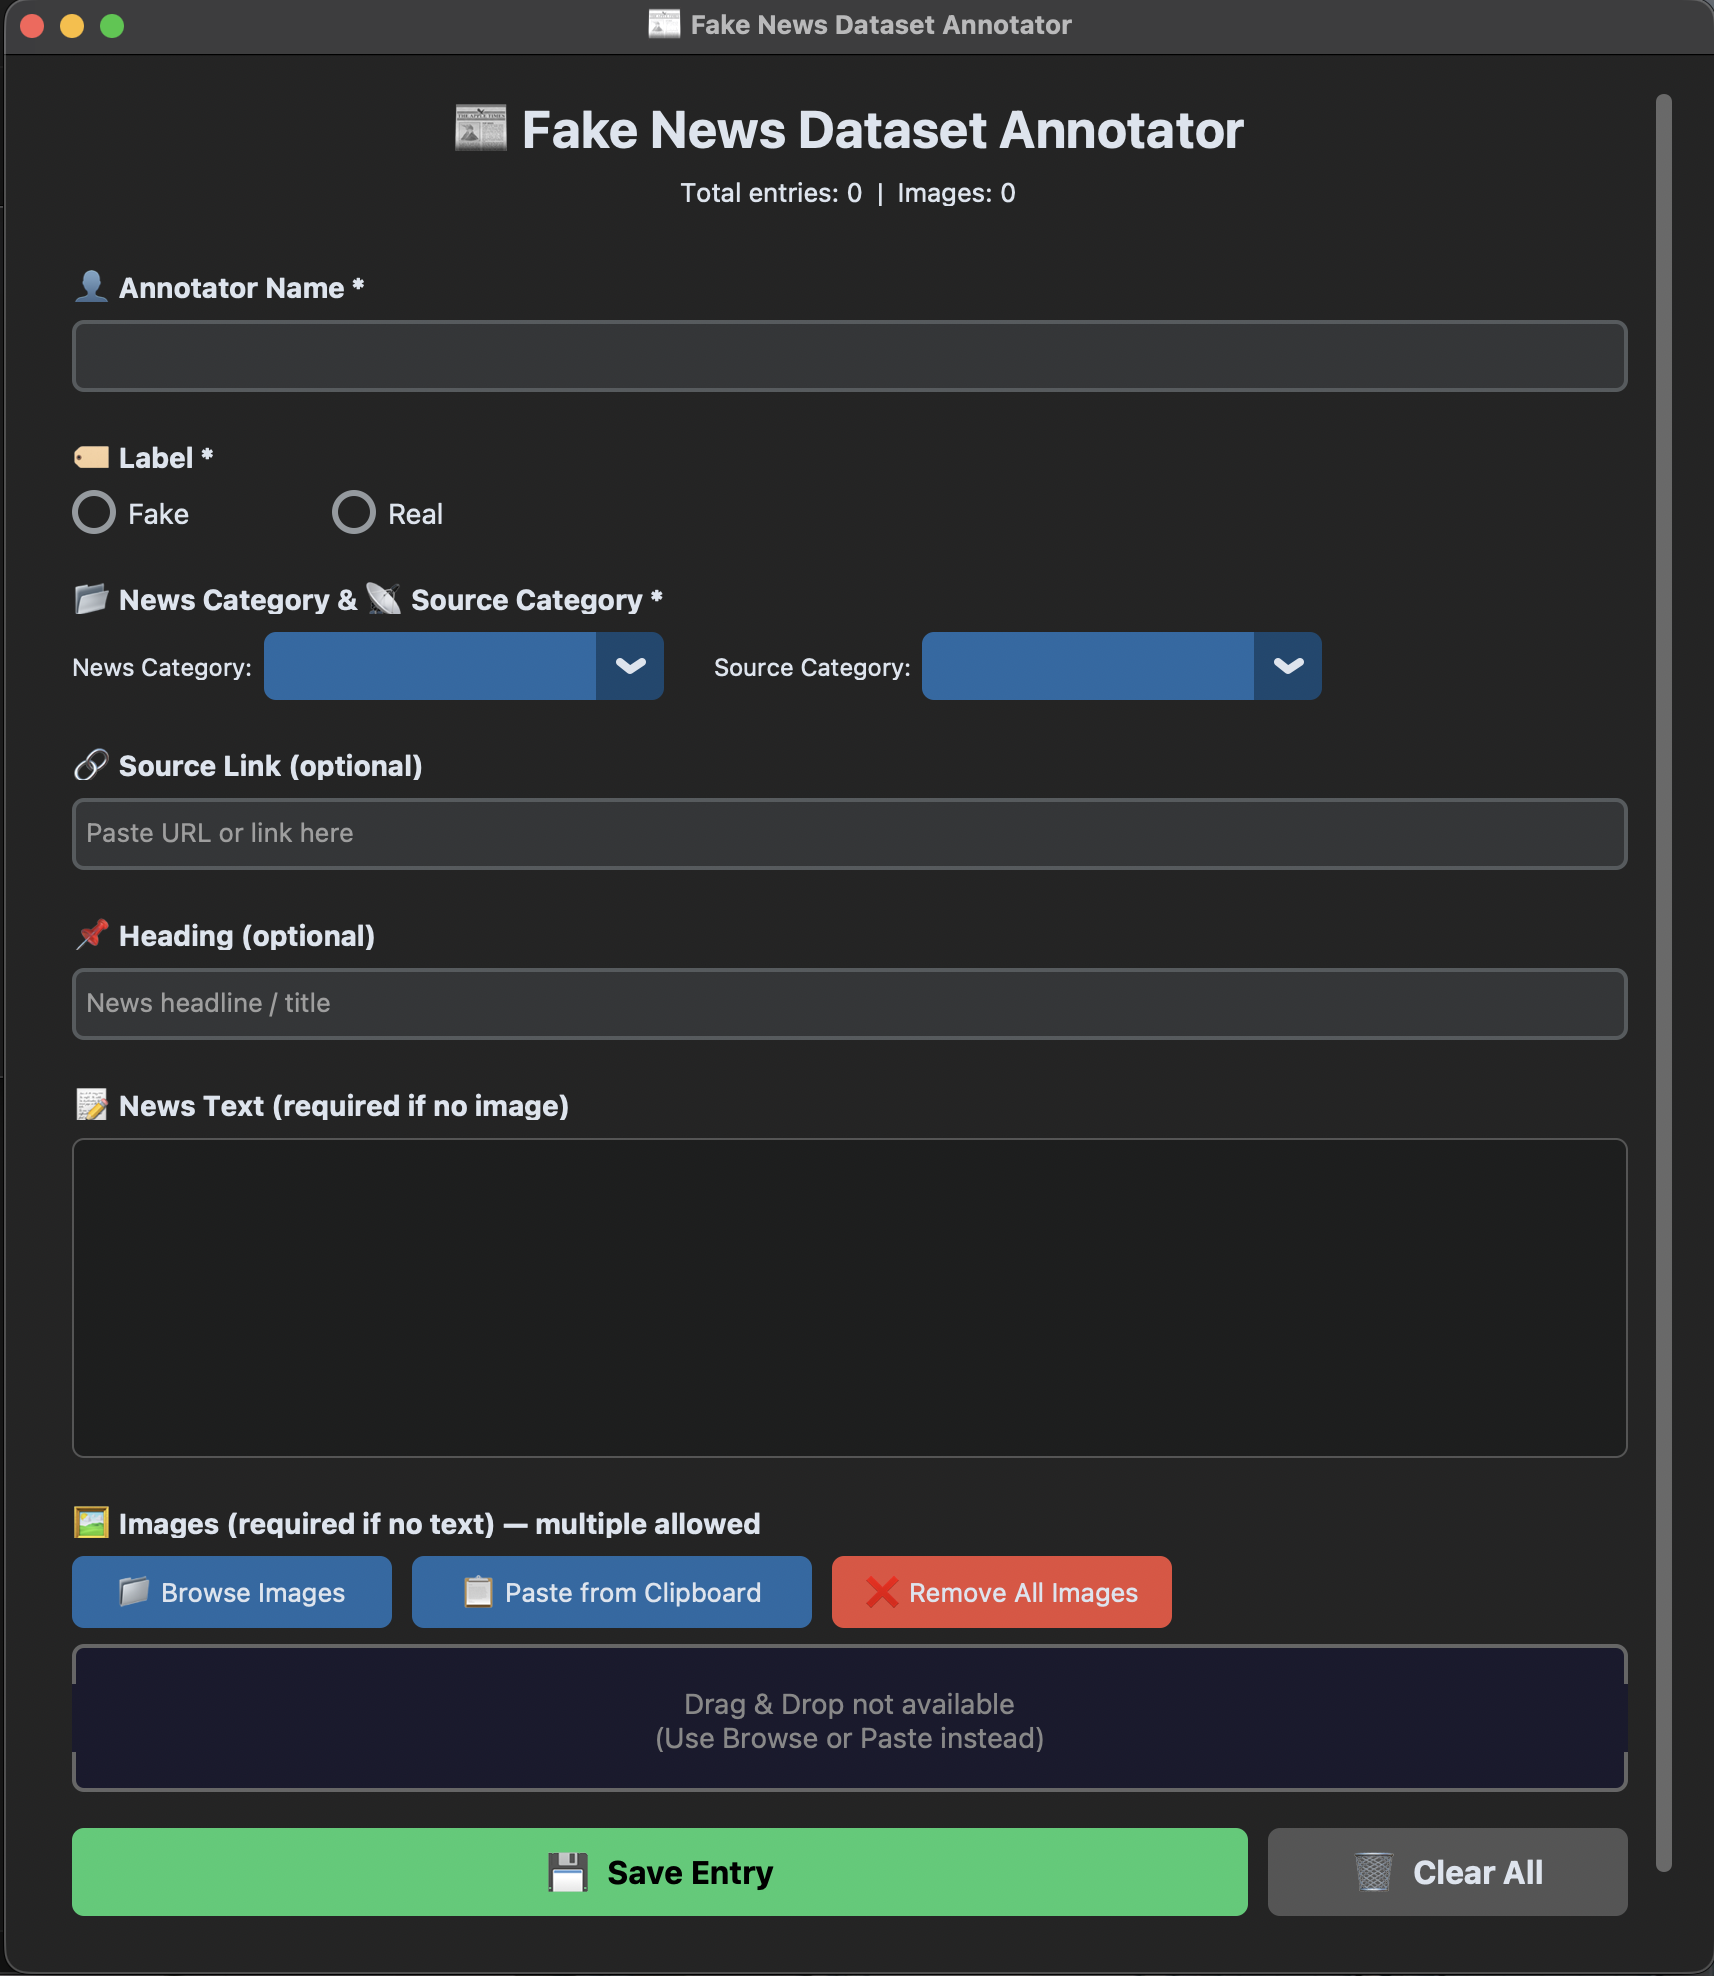
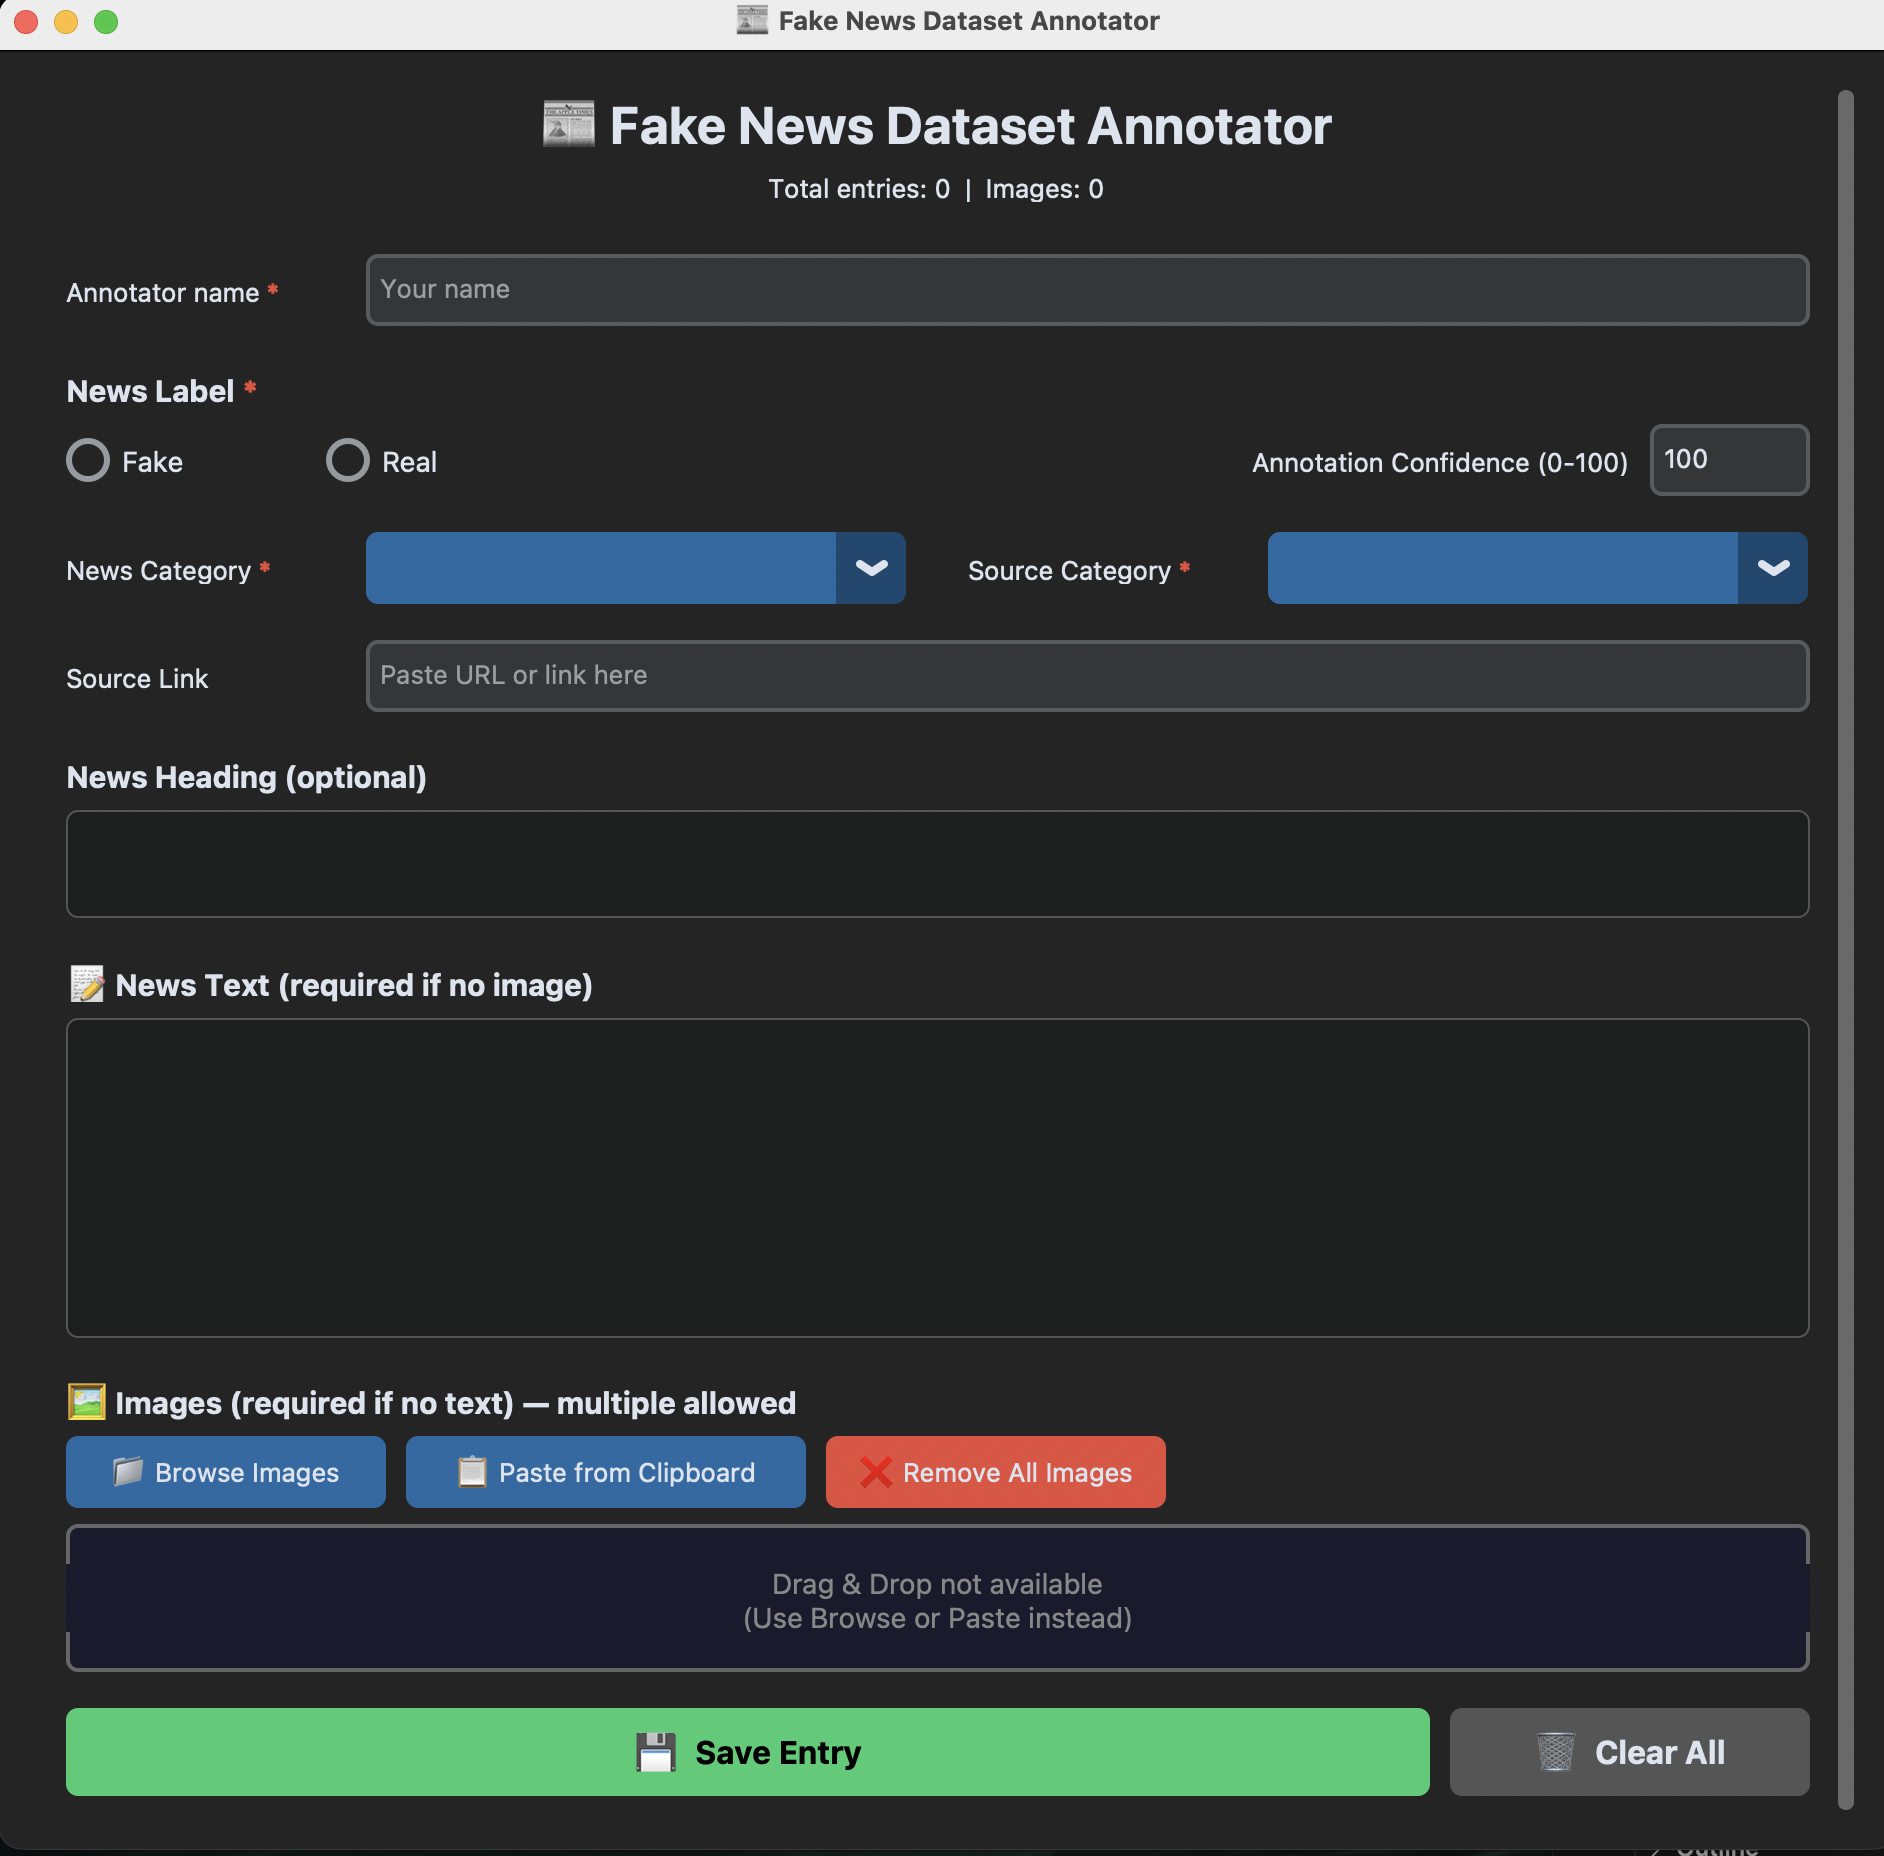
UI refactoring, perfect field alignment, and annotation confidence update

diff --git a/annotator_tool.py b/annotator_tool.py
@@ -107,13 +107,14 @@ CONFIG_PATH = SCRIPT_DIR / ".annotator_config.json"
 # - source:     Where the news came from (optional)
 # - category:   Predefined topic category (optional)
 # - annotator:  Name of the person who annotated this entry
+# - annotation_confidence: Confidence level of the annotation (0-100, default 100)
 # - timestamp:  ISO-format datetime when the entry was saved
 # - heading:         Optional headline/title of the news item
 # - multi_category:  Sub-classification for fake news (Misinformation/Rumor/Clickbait)
 #                    or "Real" when the label is Real
 # - source_category: Platform/medium where the news was found (required)
 CSV_COLUMNS = ["id", "heading", "text", "image_path", "label", "multi_category",
-               "source", "source_category", "category", "annotator", "timestamp"]
+               "source", "source_category", "category", "annotator", "annotation_confidence", "timestamp"]
 
 # CATEGORIES: Predefined category options for the dropdown menu.
 # First entry is empty string (no category selected).
@@ -302,7 +303,7 @@ class AnnotatorTool(ctk.CTk):
         
         Creates a scrollable main frame and adds all input sections:
         annotator name, label selection, category dropdown, source field,
-        text area, image controls, action buttons, and a status bar.
+        text area, image controls, and action buttons.
         """
         # Scrollable container so the UI works on smaller screens
         main = ctk.CTkScrollableFrame(self, fg_color="transparent")
@@ -316,19 +317,20 @@ class AnnotatorTool(ctk.CTk):
         self.stats_label = ctk.CTkLabel(main, text="", font=ctk.CTkFont(size=13))
         self.stats_label.pack(pady=(0, 10))
 
-        # ----- ANNOTATOR NAME FIELD (required) -----
-        # Pre-filled from config file if the user has used the tool before.
-        self._section(main, "👤 Annotator Name *")
-        self.annotator_entry = ctk.CTkEntry(main, placeholder_text="Your name", height=36)
-        self.annotator_entry.pack(fill="x", padx=10, pady=(0, 8))
-        self.annotator_entry.insert(0, load_config())  # Load saved name from config
+        # ----- ANNOTATOR NAME FIELD -----
+        annotator_row = ctk.CTkFrame(main, fg_color="transparent")
+        annotator_row.pack(fill="x", padx=10, pady=(10, 8))
+
+        self._inline_label(annotator_row, "Annotator name *")
+        self.annotator_entry = ctk.CTkEntry(annotator_row, placeholder_text="Your name", height=36)
+        self.annotator_entry.pack(side="left", fill="x", expand=True)
 
         # ----- LABEL SELECTION (required) -----
         # Two radio buttons: "Fake" (red) and "Real" (green).
         # Exactly one must be selected before saving.
         # A trace is attached to label_var so that selecting a label
         # dynamically shows/hides the multi-category sub-classification.
-        self._section(main, "🏷️ Label *")
+        self._section(main, "News Label *")
         label_frame = ctk.CTkFrame(main, fg_color="transparent")
         label_frame.pack(fill="x", padx=10, pady=(0, 8))
         self.label_var = ctk.StringVar(value="")  # Empty = nothing selected yet
@@ -342,6 +344,13 @@ class AnnotatorTool(ctk.CTk):
                                               fg_color="#2ecc71", hover_color="#27ae60",
                                               command=self._on_label_change)
         self.radio_real.pack(side="left")
+        
+        self.confidence_entry = ctk.CTkEntry(label_frame, placeholder_text="100", width=80, height=36)
+        self.confidence_entry.pack(side="right")
+        self.confidence_entry.insert(0, "100")
+        
+        ctk.CTkLabel(label_frame, text="Annotation Confidence (0-100)",
+                     font=ctk.CTkFont(size=13)).pack(side="right", padx=(0, 10))
 
         # ----- MULTI-CATEGORY SUB-CLASSIFICATION -----
         # This section is only visible when the label is "Fake".
@@ -355,9 +364,14 @@ class AnnotatorTool(ctk.CTk):
         # Initially hidden — will be shown by _on_label_change when "Fake" is selected
         self.multi_cat_var = ctk.StringVar(value="")  # Empty = nothing selected yet
         # Header label inside the frame
-        ctk.CTkLabel(self.multi_cat_frame, text="⚠️ Fake News Type *",
+        multi_cat_header = ctk.CTkFrame(self.multi_cat_frame, fg_color="transparent")
+        multi_cat_header.pack(anchor="w", padx=12, pady=(8, 4))
+        ctk.CTkLabel(multi_cat_header, text="⚠️ Fake News Type",
                      font=ctk.CTkFont(size=13, weight="bold"),
-                     text_color="#f39c12").pack(anchor="w", padx=12, pady=(8, 4))
+                     text_color="#f39c12").pack(side="left", padx=(0, 2))
+        ctk.CTkLabel(multi_cat_header, text="*",
+                     font=ctk.CTkFont(size=13, weight="bold"),
+                     text_color="#e74c3c").pack(side="left")
         # Radio button row for the three sub-types
         multi_btn_frame = ctk.CTkFrame(self.multi_cat_frame, fg_color="transparent")
         multi_btn_frame.pack(fill="x", padx=12, pady=(0, 8))
@@ -382,35 +396,38 @@ class AnnotatorTool(ctk.CTk):
         # Placed side by side on the same row to save vertical space.
         # News Category: topic of the news (Politics, Health, etc.)
         # Source Category: platform/medium where the news was found
-        self._section(main, "📂 News Category & 📡 Source Category *")
         cat_row = ctk.CTkFrame(main, fg_color="transparent")
-        cat_row.pack(fill="x", padx=10, pady=(0, 8))
+        cat_row.pack(fill="x", padx=10, pady=(10, 8))
         # Left side: News Category dropdown
-        ctk.CTkLabel(cat_row, text="News Category:",
-                     font=ctk.CTkFont(size=12)).pack(side="left", padx=(0, 5))
+        self._inline_label(cat_row, "News Category *")
         self.category_var = ctk.StringVar(value="")  # Empty = no category
         self.category_menu = ctk.CTkOptionMenu(cat_row, variable=self.category_var,
-                                                values=CATEGORIES, width=200, height=34)
-        self.category_menu.pack(side="left", padx=(0, 25))
+                                                values=CATEGORIES, height=36)
+        self.category_menu.pack(side="left", fill="x", expand=True)
+        
+        # Spacer
+        ctk.CTkFrame(cat_row, width=30, height=36, fg_color="transparent").pack(side="left")
+        
         # Right side: Source Category dropdown
-        ctk.CTkLabel(cat_row, text="Source Category:",
-                     font=ctk.CTkFont(size=12)).pack(side="left", padx=(0, 5))
+        self._inline_label(cat_row, "Source Category *")
         self.source_cat_var = ctk.StringVar(value="")  # Empty = nothing selected
         self.source_cat_menu = ctk.CTkOptionMenu(cat_row, variable=self.source_cat_var,
-                                                  values=SOURCE_CATEGORIES, width=200, height=34)
-        self.source_cat_menu.pack(side="left")
+                                                  values=SOURCE_CATEGORIES, height=36)
+        self.source_cat_menu.pack(side="left", fill="x", expand=True)
 
         # ----- SOURCE LINK FIELD (optional) -----
-        # Free-text field for the specific source link (URL, etc.)
-        self._section(main, "🔗 Source Link (optional)")
-        self.source_entry = ctk.CTkEntry(main, placeholder_text="Paste URL or link here", height=36)
-        self.source_entry.pack(fill="x", padx=10, pady=(0, 8))
+        source_row = ctk.CTkFrame(main, fg_color="transparent")
+        source_row.pack(fill="x", padx=10, pady=(10, 8))
 
-        # ----- HEADING FIELD (optional) -----
-        # A short headline or title for the news item. Stored in the
-        # 'heading' CSV column. Optional — the annotator can leave it blank.
-        self._section(main, "📌 Heading (optional)")
-        self.heading_entry = ctk.CTkEntry(main, placeholder_text="News headline / title", height=36)
+        self._inline_label(source_row, "Source Link")
+        self.source_entry = ctk.CTkEntry(source_row, placeholder_text="Paste URL or link here", height=36)
+        self.source_entry.pack(side="left", fill="x", expand=True)
+
+        # ----- NEWS HEADING FIELD (optional) -----
+        # Placed as a separate section with a label above and 2-line input box below.
+        self._section(main, "News Heading (optional)")
+        self.heading_entry = ctk.CTkTextbox(main, height=55, font=ctk.CTkFont(size=13),
+                                            border_width=1, border_color="#555")
         self.heading_entry.pack(fill="x", padx=10, pady=(0, 8))
 
         # ----- TEXT INPUT AREA -----
@@ -457,6 +474,8 @@ class AnnotatorTool(ctk.CTk):
                                         font=ctk.CTkFont(size=14), text_color="#888")
         self.drop_label.pack(expand=True, fill="both", pady=20)
 
+
+
         # ----- ACTION BUTTONS -----
         btn_frame = ctk.CTkFrame(main, fg_color="transparent")
         btn_frame.pack(fill="x", padx=10, pady=(10, 5))
@@ -470,23 +489,42 @@ class AnnotatorTool(ctk.CTk):
                        height=44, width=180, font=ctk.CTkFont(size=16, weight="bold"),
                        fg_color="#555", hover_color="#777").pack(side="left")
 
-        # ----- STATUS BAR -----
-        # Shows feedback messages: "Ready", "Entry saved", validation errors, etc.
-        self.status_label = ctk.CTkLabel(main, text="Ready", font=ctk.CTkFont(size=12),
-                                          text_color="#888")
-        self.status_label.pack(pady=(8, 5))
+        # ----- STATUS BAR (REMOVED) -----
+        class DummyLabel:
+            def configure(self, *args, **kwargs): pass
+        self.status_label = DummyLabel()
 
     def _section(self, parent, text):
         """Create a bold section heading label in the UI.
         
         Used to visually separate different input areas (Annotator, Label, etc.).
-        
-        Args:
-            parent: The parent widget to place the label in.
-            text: The heading text to display.
+        If the text ends with '*', it displays the '*' in red color.
         """
-        ctk.CTkLabel(parent, text=text, font=ctk.CTkFont(size=14, weight="bold"),
-                     anchor="w").pack(fill="x", padx=10, pady=(10, 3))
+        frame = ctk.CTkFrame(parent, fg_color="transparent")
+        frame.pack(fill="x", padx=10, pady=(10, 3))
+        
+        if text.endswith("*"):
+            main_text = text[:-1].rstrip()
+            lbl = ctk.CTkLabel(frame, text=main_text, font=ctk.CTkFont(size=15, weight="bold"))
+            lbl.pack(side="left")
+            ast = ctk.CTkLabel(frame, text=" *", font=ctk.CTkFont(size=15, weight="bold"), text_color="#e74c3c")
+            ast.pack(side="left")
+        else:
+            lbl = ctk.CTkLabel(frame, text=text, font=ctk.CTkFont(size=15, weight="bold"))
+            lbl.pack(side="left")
+
+    def _inline_label(self, parent, text, width=140):
+        """Create a fixed-width frame for inline labels to ensure vertical alignment of inputs."""
+        frame = ctk.CTkFrame(parent, width=width, height=36, fg_color="transparent")
+        frame.pack_propagate(False)
+        frame.pack(side="left", padx=(0, 10))
+        
+        if text.endswith("*"):
+            main_text = text[:-1].rstrip()
+            ctk.CTkLabel(frame, text=main_text, font=ctk.CTkFont(size=13)).pack(side="left")
+            ctk.CTkLabel(frame, text=" *", font=ctk.CTkFont(size=13, weight="bold"), text_color="#e74c3c").pack(side="left")
+        else:
+            ctk.CTkLabel(frame, text=text, font=ctk.CTkFont(size=13)).pack(side="left")
 
     # =========================================================================
     # LABEL CHANGE HANDLER
@@ -761,12 +799,13 @@ class AnnotatorTool(ctk.CTk):
         # --- Step 1: Read all current field values ---
         annotator = self.annotator_entry.get().strip()
         label = self.label_var.get()
-        heading = self.heading_entry.get().strip()  # Optional headline
+        heading = self.heading_entry.get("1.0", "end-1c").strip()  # Optional headline
         text = self.text_box.get("1.0", "end-1c").strip()  # Get text without trailing newline
         source = self.source_entry.get().strip()
         source_category = self.source_cat_var.get()  # Required platform/medium
         category = self.category_var.get()
         multi_cat = self.multi_cat_var.get()  # Sub-classification for fake news
+        confidence_str = self.confidence_entry.get().strip()
         has_image = len(self.image_list) > 0
 
         # --- Step 2: Validate required fields ---
@@ -785,6 +824,19 @@ class AnnotatorTool(ctk.CTk):
             errors.append("Source Category is required.")
         if not text and not has_image:
             errors.append("At least one of Text or Image must be provided.")
+
+        # Validate confidence value
+        confidence = 100
+        if not confidence_str:
+            confidence = 100
+        else:
+            try:
+                confidence = int(confidence_str)
+                if not (0 <= confidence <= 100):
+                    errors.append("Annotation Confidence must be an integer between 0 and 100.")
+            except ValueError:
+                errors.append("Annotation Confidence must be a valid integer between 0 and 100.")
+
         if errors:
             messagebox.showerror("Validation Error", "\n".join(errors))
             return
@@ -873,6 +925,7 @@ class AnnotatorTool(ctk.CTk):
                 "source_category": source_category,
                 "category": category,
                 "annotator": annotator,
+                "annotation_confidence": confidence,
                 "timestamp": datetime.now().isoformat(),
             })
 
@@ -902,7 +955,7 @@ class AnnotatorTool(ctk.CTk):
         category, multi-category, and all attached images.
         """
         self.text_box.delete("1.0", "end")       # Clear the text area
-        self.heading_entry.delete(0, "end")        # Clear the heading field
+        self.heading_entry.delete("1.0", "end")       # Clear the heading field
         self.source_entry.delete(0, "end")         # Clear the source field
         self.label_var.set("")                      # Deselect the label radio buttons
         self.category_var.set("")                   # Reset category dropdown
@@ -910,6 +963,8 @@ class AnnotatorTool(ctk.CTk):
         self.multi_cat_var.set("")                   # Reset multi-category selection
         self.multi_cat_frame.pack_forget()           # Hide multi-category panel
         self._remove_all_images()                   # Clear all attached images
+        self.confidence_entry.delete(0, "end")      # Clear confidence field
+        self.confidence_entry.insert(0, "100")      # Reset default value to 100
 
     def _clear_all(self):
         """Clear all fields except the annotator name.

diff --git a/README.md b/README.md
@@ -32,12 +32,12 @@ Go to the [**Releases**](../../releases/latest) page and download the file for y
      
      *For Mac M1/M2/M3/M4 (Apple Silicon):*
      ```bash
-     mkdir -p ~/Desktop/"Fake News Dataset" && cd ~/Desktop/"Fake News Dataset" && curl -L -O https://github.com/Faysal1000/fake-news-annotation-tool/releases/download/v1.0.0/FakeNewsAnnotator-macOS-AppleSilicon.zip && unzip -o FakeNewsAnnotator-macOS-AppleSilicon.zip && rm FakeNewsAnnotator-macOS-AppleSilicon.zip
+     mkdir -p ~/Desktop/"Fake News Dataset" && cd ~/Desktop/"Fake News Dataset" && curl -L -O https://github.com/Faysal1000/fake-news-annotation-tool/releases/latest/download/FakeNewsAnnotator-macOS-AppleSilicon.zip && unzip -o FakeNewsAnnotator-macOS-AppleSilicon.zip && rm FakeNewsAnnotator-macOS-AppleSilicon.zip
      ```
      
      *For older Intel Macs:*
      ```bash
-     mkdir -p ~/Desktop/"Fake News Dataset" && cd ~/Desktop/"Fake News Dataset" && curl -L -O https://github.com/Faysal1000/fake-news-annotation-tool/releases/download/v1.0.0/FakeNewsAnnotator-macOS-Intel.zip && unzip -o FakeNewsAnnotator-macOS-Intel.zip && rm FakeNewsAnnotator-macOS-Intel.zip
+     mkdir -p ~/Desktop/"Fake News Dataset" && cd ~/Desktop/"Fake News Dataset" && curl -L -O https://github.com/Faysal1000/fake-news-annotation-tool/releases/latest/download/FakeNewsAnnotator-macOS-Intel.zip && unzip -o FakeNewsAnnotator-macOS-Intel.zip && rm FakeNewsAnnotator-macOS-Intel.zip
      ```
 
    - **Alternative manual fix:** If you already downloaded the `.zip` through Safari/Chrome and extracted it, open **Terminal** and type:
@@ -51,14 +51,14 @@ Go to the [**Releases**](../../releases/latest) page and download the file for y
 4. **Windows users**: 
    - You can download it directly from the browser, or open **Command Prompt** (cmd) and paste this to automatically create a `Fake News Dataset` folder on your Desktop and download it there:
      ```cmd
-     mkdir "%USERPROFILE%\Desktop\Fake News Dataset" 2>nul & cd "%USERPROFILE%\Desktop\Fake News Dataset" & curl -L -O https://github.com/Faysal1000/fake-news-annotation-tool/releases/download/v1.0.0/FakeNewsAnnotator-Windows.exe
+     mkdir "%USERPROFILE%\Desktop\Fake News Dataset" 2>nul & cd "%USERPROFILE%\Desktop\Fake News Dataset" & curl -L -O https://github.com/Faysal1000/fake-news-annotation-tool/releases/latest/download/FakeNewsAnnotator-Windows.exe
      ```
    - Go to the `Fake News Dataset` folder on your Desktop and double-click the `.exe` to launch the tool.
 
 5. **Linux users**:
    - Open your terminal and paste this command to create a `Fake News Dataset` folder on your Desktop, download it there, and make it executable:
      ```bash
-     mkdir -p ~/Desktop/"Fake News Dataset" && cd ~/Desktop/"Fake News Dataset" && curl -L -O https://github.com/Faysal1000/fake-news-annotation-tool/releases/download/v1.0.0/FakeNewsAnnotator-Linux && chmod +x FakeNewsAnnotator-Linux
+     mkdir -p ~/Desktop/"Fake News Dataset" && cd ~/Desktop/"Fake News Dataset" && curl -L -O https://github.com/Faysal1000/fake-news-annotation-tool/releases/latest/download/FakeNewsAnnotator-Linux && chmod +x FakeNewsAnnotator-Linux
      ```
    - Go to the `Fake News Dataset` folder on your Desktop and double-click the file, or run `./FakeNewsAnnotator-Linux` to launch the tool.
 
@@ -125,6 +125,7 @@ YourFolder/
 | `source_category` | Platform where news was found (e.g., `Facebook`, `News Channel`) |
 | `category` | News topic category (e.g., `Politics`, `Health`) |
 | `annotator` | Name of the person who annotated this entry |
+| `annotation_confidence` | Confidence level of the annotation (0-100, default `100`) |
 | `timestamp` | ISO-format datetime when the entry was saved |
 
 ### Image Naming Convention